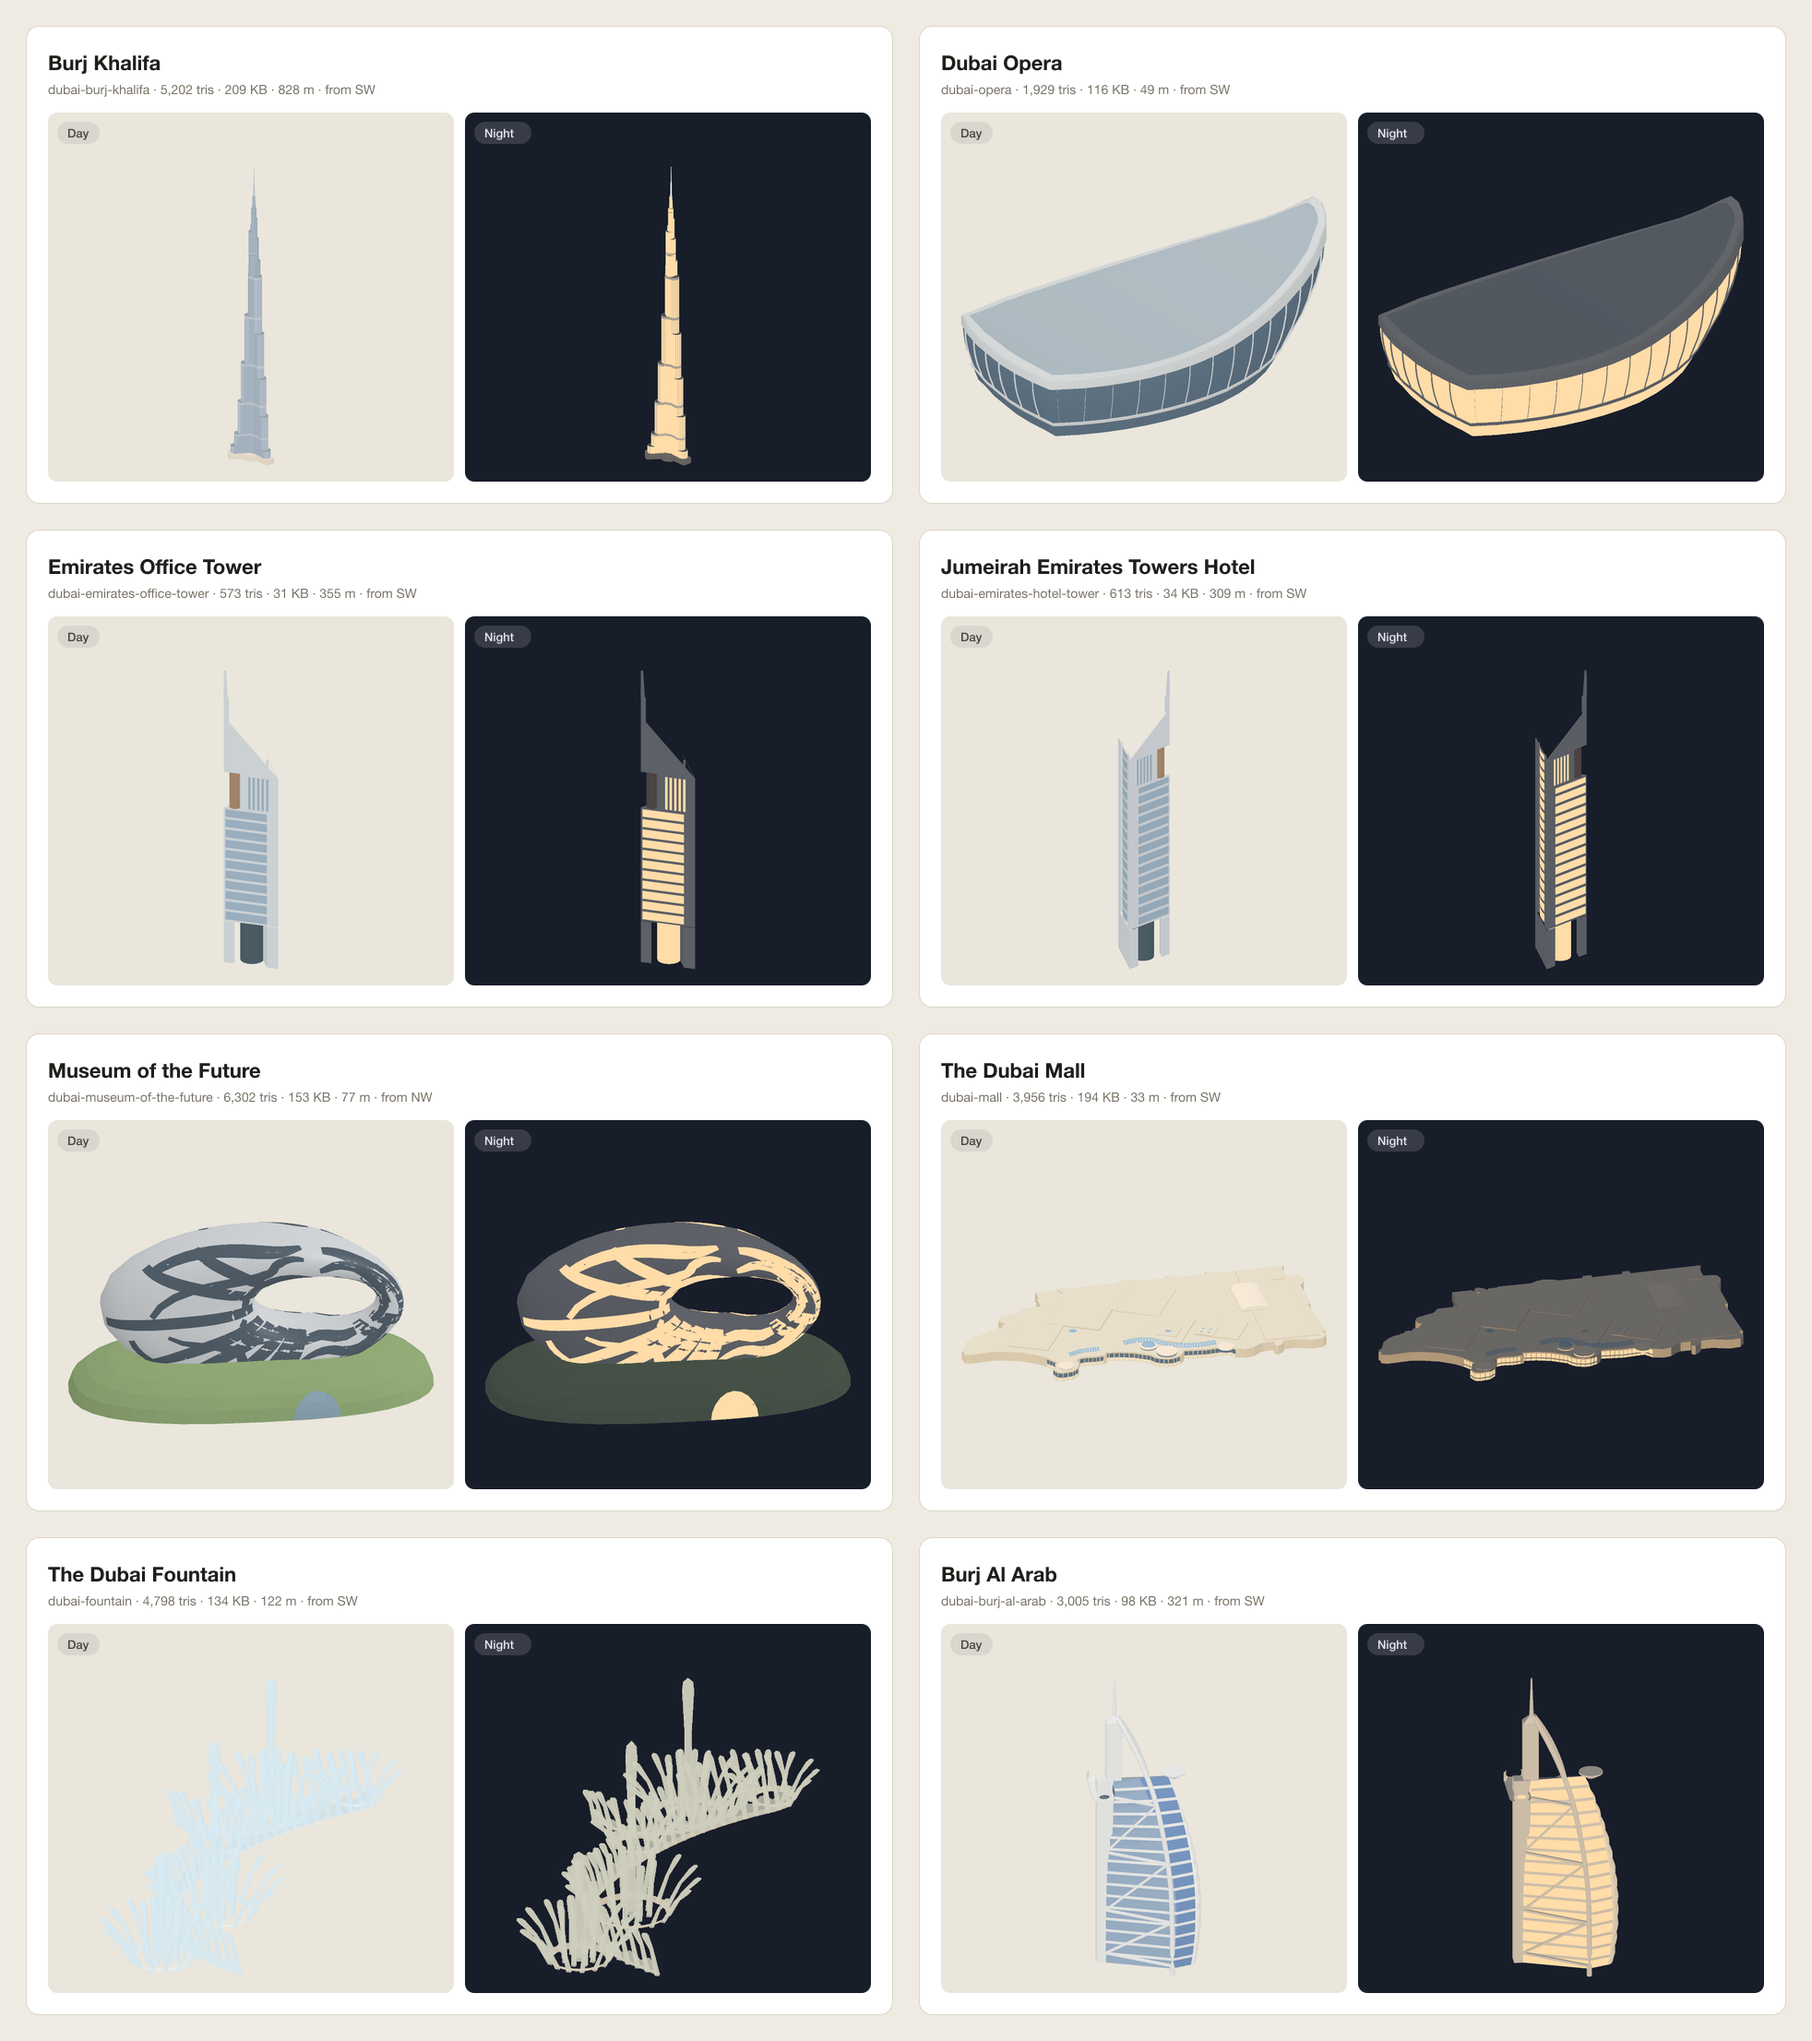
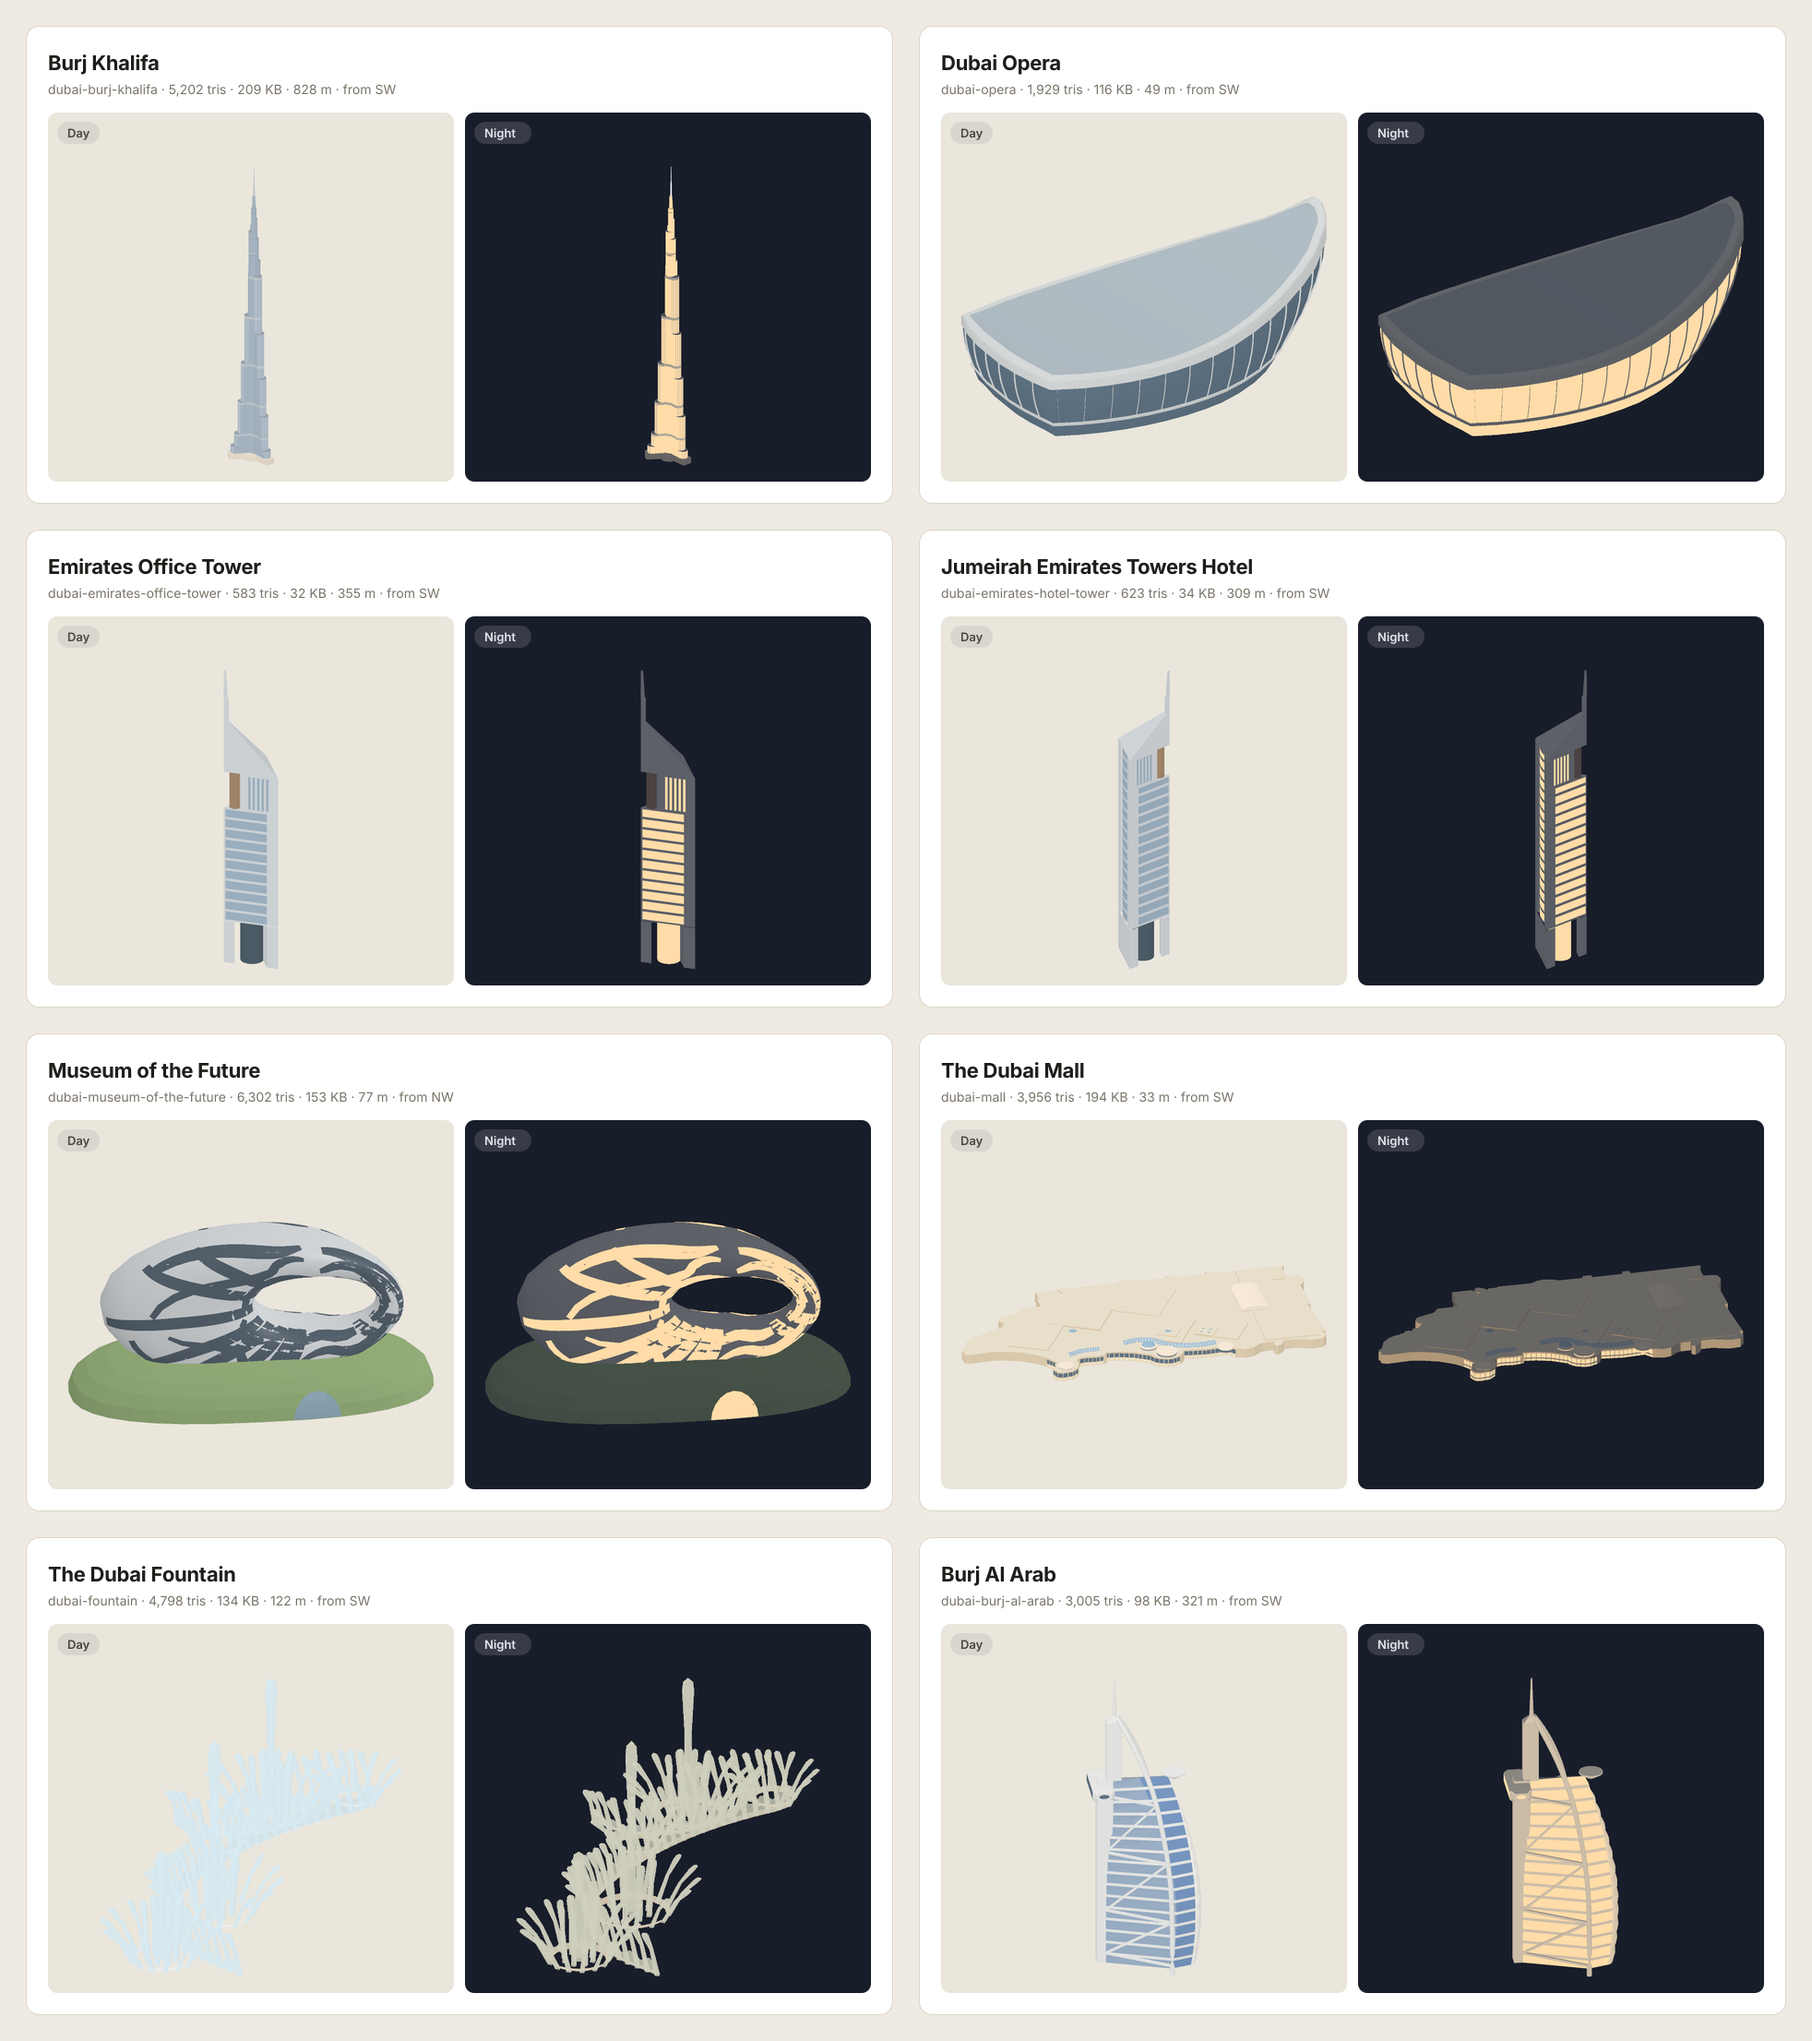
Dubai: fix missing roofs and inside-out faces
- Emirates Towers: the crown's bevelled top and soffit failed to
  triangulate (the 0.6 m bevel folded the 0.6 m chamfers), so both crowns
  had no roof. Triangulate the outer plan and reuse its indices; make
  triangulate throw instead of silently dropping a cap.
- Burj Al Arab: the Al Muntaha pod was wound inside out (roof facing
  down, side glass facing in); the main roof cap was fanned over a
  non-convex ring, turning one triangle over. Ear-clip it.
- The Gate: cap the attic band, open behind the 1 m glass-storey setback.
- Jumeirah Beach Hotel: the two end walls were wound inward.
- Regenerate the contact sheets.

diff --git a/generators/dubai-burj-al-arab.ts b/generators/dubai-burj-al-arab.ts
@@ -305,7 +305,28 @@ white.quad(P(-BACK, 0, 0), P(BACK, 0, 0), P(BACK, 0, ROOF), P(-BACK, 0, ROOF))
     ring.push(P(p.xB * Math.cos(phi), p.uB + p.d * Math.sin(phi), ROOF))
   }
   ring.push(P(-p.xA, p.uA, ROOF), P(-BACK, 0, ROOF))
-  roof.cap(ring, true)
+  // The ring isn't convex where the wings meet the back line, so a fan
+  // would turn a triangle over; ear-clip it instead.
+  for (const [i, j, k] of earClip(ring)) roof.tri(ring[i], ring[j], ring[k])
+}
+
+/** Ear-clipping triangulation of a simple ring, counter-clockwise from above. */
+function earClip(ring: V3[]): [number, number, number][] {
+  const cz = (a: V3, b: V3, c: V3) => (b[0] - a[0]) * (c[1] - a[1]) - (b[1] - a[1]) * (c[0] - a[0])
+  const idx = ring.map((_, i) => i), out: [number, number, number][] = []
+  while (idx.length > 3) {
+    const k = idx.findIndex((i1, k) => {
+      const i0 = idx[(k + idx.length - 1) % idx.length], i2 = idx[(k + 1) % idx.length]
+      const [a, b, c] = [ring[i0], ring[i1], ring[i2]]
+      return cz(a, b, c) > 1e-9 && !idx.some((j) => j !== i0 && j !== i1 && j !== i2 &&
+        cz(a, b, ring[j]) >= 0 && cz(b, c, ring[j]) >= 0 && cz(c, a, ring[j]) >= 0)
+    })
+    if (k < 0) throw new Error('earClip: ring is not simple')
+    out.push([idx[(k + idx.length - 1) % idx.length], idx[k], idx[(k + 1) % idx.length]])
+    idx.splice(k, 1)
+  }
+  out.push([idx[0], idx[1], idx[2]])
+  return out
 }
 
 // ---------- spine core and the shaft above the roof ----------
@@ -409,8 +430,8 @@ for (const sx of [1, -1]) tube(white, legPath(sx), 2.6, 8)
       const zmid = (a[2] + b[2]) / 2
       const isGlass = k === 1 && (i === 2 || i === 6) && Math.abs(zmid - ZC) < 4
       const part = isGlass ? podGlass : white
-      // section points run ccw in (u, z), i.e. clockwise seen from +x; quad (a, d, c, b) faces out
-      part.quad(a, d, c, b)
+      // section points run ccw in (u, z), i.e. ccw seen from +x (y x z = x); quad (a, b, c, d) faces out
+      part.quad(a, b, c, d)
     }
   // end faces: glazed ovals
   const endL = rings[0], endR = rings[3]

diff --git a/generators/dubai-emirates-office-tower.ts b/generators/dubai-emirates-office-tower.ts
@@ -196,6 +196,8 @@ function triangulate(poly: V2[]): [number, number, number][] {
     if (!clipped) break
   }
   if (idx.length === 3) tris.push([idx[0], idx[1], idx[2]])
+  // A polygon that won't clip (self-intersecting, or wound clockwise) would leave a roof out.
+  if (tris.length !== poly.length - 2) throw new Error(`triangulate: ${tris.length} of ${poly.length - 2} triangles`)
   return tris
 }
 
@@ -262,7 +264,9 @@ function bevelPrism(p: Part, poly: V2[], z0: number, topZ: (q: V2) => number, be
     }
     p.quad(at(a, za), at(b, zb), at(bi, topZ(bi)), at(ai, topZ(ai)))
   }
-  for (const [i, j, k] of triangulate(inner)) {
+  // The inset can fold over a chamfer as short as the bevel, so triangulate
+  // the outer plan; the inner ring has the same corners in the same order.
+  for (const [i, j, k] of triangulate(poly)) {
     p.tri(at(inner[i], topZ(inner[i])), at(inner[j], topZ(inner[j])), at(inner[k], topZ(inner[k])))
     if (bottom) p.tri(at(poly[i], z0), at(poly[k], z0), at(poly[j], z0))
   }

diff --git a/generators/dubai-gate-building.ts b/generators/dubai-gate-building.ts
@@ -149,7 +149,7 @@ box(stone, [-H, -OW, -H, H], 0, Z.open + 0.5, 0.5, { top: false })
 box(stone, [OW, H, -H, H], 0, Z.open + 0.5, 0.5, { top: false })
 // Attic: stone band (with the opening's ceiling under it), the recessed
 // X-braced glass storey, then the parapet band with a bevelled top.
-box(stone, [-H, H, -H, H], Z.open, Z.band1, 0.5, { top: false, bottom: true })
+box(stone, [-H, H, -H, H], Z.open, Z.band1, 0.5, { bottom: true })
 box(dark, [-H + RECESS, H - RECESS, -H + RECESS, H - RECESS], Z.band1, Z.band2, 0.3, { top: false })
 box(stone, [-H, H, -H, H], Z.band2, Z.roof, 0.5, { bottomBevel: true })
 // Roof pavilion, set back.

diff --git a/generators/dubai-jumeirah-beach-hotel.ts b/generators/dubai-jumeirah-beach-hotel.ts
@@ -204,7 +204,7 @@ for (let k = 0; k < ST.length - 1; k++) {
 // end caps
 for (const [st, dir] of [[ST[0], -1], [ST[ST.length - 1], 1]] as [St, number][]) {
   const pts: V3[] = [[st.x0, st.y, 0], [st.x1, st.y, 0], [st.x1, st.y, st.h1], [st.x0, st.y, st.h0]]
-  if (dir > 0) roof.quad(pts[0], pts[1], pts[2], pts[3])
+  if (dir < 0) roof.quad(pts[0], pts[1], pts[2], pts[3])
   else roof.quad(pts[1], pts[0], pts[3], pts[2])
 }
 
